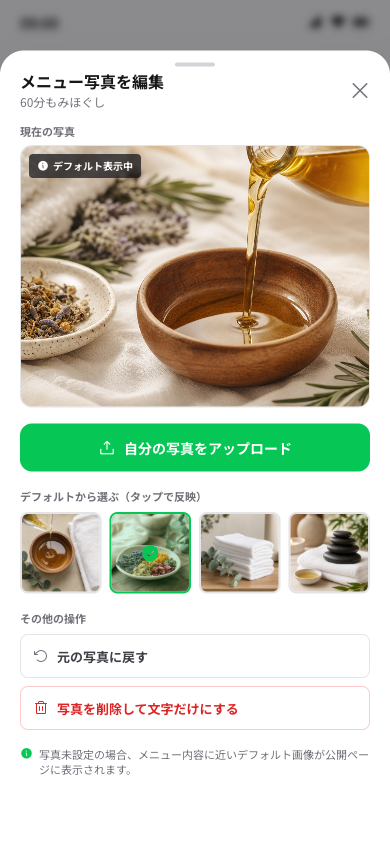
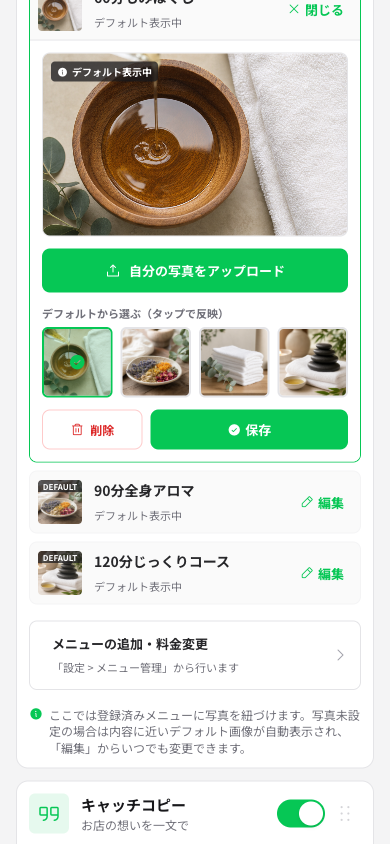
refactor(admin02 menu): フルスクリーンモーダルを廃止 → 編集ボタン位置でインライン展開アコーディオン
UX 問題の根本対応：

- 旧: 編集ボタンタップ → 画面ほぼ全体を覆うボトムシートモーダル
  ｜編集ボタンの位置感覚が失われ、操作対象との文脈断絶
  ｜画面が真っ白に変わる印象でリテラシー低層に不安
- 新: 編集ボタンタップ → 該当メニュー行のすぐ下にパネルがインライン展開
  ｜タップした位置のまま、視線移動なし
  ｜閉じるボタンも同じ位置（×アイコン+「閉じる」）
  ｜他メニューは触らない、画面全体は再描画しない

変更内容：
- 各メニュー行を .menu-row > [.menu-row__toggle, .menu-row__panel] の構造に再編
- 編集ボタンを行全体のtoggleに統合（ph-pencil ↔ ph-x のアイコン切替）
- 展開パネル: preview / アップロード CTA / デフォルト4サムネ / 削除・保存
- 旧モーダルHTML（#menu-photo-modal）と関連JSを完全削除
- 新JSはアイコン・ラベル・ボーダー色をトグル

操作対象との文脈を保ったまま編集できる、人間中心のUIに修正

diff --git a/shop-page/admin/02_block-edit.html b/shop-page/admin/02_block-edit.html
@@ -357,52 +357,191 @@
               詳細は admin/README.md を参照。
             -->
 
-            <!-- 60分もみほぐし（state="default" を採用） -->
-            <div class="flex items-center gap-3 p-2 bg-zinc-50 rounded-lg border border-zinc-100">
-              <div class="w-11 h-11 rounded overflow-hidden flex-shrink-0 relative">
-                <img src="../../branding/dummy/default/menu/01_oil.webp" alt="" class="w-full h-full object-cover opacity-90">
-                <span class="absolute top-0 left-0 right-0 text-center bg-zinc-900/70 text-white text-[8px] font-bold leading-[10px] py-[1px]">DEFAULT</span>
-              </div>
-              <div class="flex-1 min-w-0">
-                <span class="text-[14px] font-bold text-zinc-800 truncate block">60分もみほぐし</span>
-                <span class="text-[11px] text-zinc-500">デフォルト表示中</span>
-              </div>
-              <button class="menu-photo-edit text-[13px] font-bold text-line h-8 px-2 flex items-center gap-1" data-menu="60分もみほぐし" data-state="default">
-                <i class="ph ph-pencil-simple text-[14px]"></i>
-                編集
+            <!--
+              ▼ 展開UI（インラインaccordion）：
+              「編集」タップで同じカード内に編集パネルがその場で展開する。
+              モーダル表示にはせず、編集ボタンの位置を視覚的に維持。
+            -->
+
+            <!-- 60分もみほぐし -->
+            <div class="menu-row bg-zinc-50 rounded-lg border border-zinc-100 overflow-hidden" data-menu="60分もみほぐし" data-state="default">
+              <button class="menu-row__toggle w-full flex items-center gap-3 p-2 text-left touch-active">
+                <div class="w-11 h-11 rounded overflow-hidden flex-shrink-0 relative">
+                  <img src="../../branding/dummy/default/menu/01_oil.webp" alt="" class="menu-row__thumb w-full h-full object-cover opacity-90">
+                  <span class="absolute top-0 left-0 right-0 text-center bg-zinc-900/70 text-white text-[8px] font-bold leading-[10px] py-[1px]">DEFAULT</span>
+                </div>
+                <div class="flex-1 min-w-0">
+                  <span class="text-[14px] font-bold text-zinc-800 truncate block">60分もみほぐし</span>
+                  <span class="text-[11px] text-zinc-500">デフォルト表示中</span>
+                </div>
+                <span class="text-[13px] font-bold text-line h-8 px-2 flex items-center gap-1 shrink-0">
+                  <i class="ph ph-pencil-simple text-[14px] menu-row__icon-edit"></i>
+                  <i class="ph ph-x text-[14px] menu-row__icon-close hidden"></i>
+                  <span class="menu-row__label">編集</span>
+                </span>
               </button>
+              <!-- 展開パネル -->
+              <div class="menu-row__panel hidden border-t border-zinc-200 p-3 space-y-3 bg-white">
+                <div class="relative w-full aspect-[5/3] rounded-lg overflow-hidden bg-zinc-100 border border-zinc-200">
+                  <img src="../../branding/dummy/default/menu/01_oil.webp" alt="" class="w-full h-full object-cover">
+                  <span class="absolute top-2 left-2 inline-flex items-center h-5 px-1.5 rounded bg-zinc-900/75 text-white text-[10px] font-bold gap-1 leading-none">
+                    <i class="ph-fill ph-info text-[11px]"></i>
+                    デフォルト表示中
+                  </span>
+                </div>
+                <button class="w-full h-11 bg-line text-white rounded-lg text-[13px] font-bold inline-flex items-center justify-center gap-2 leading-none touch-active">
+                  <i class="ph ph-upload-simple text-[16px]"></i>
+                  自分の写真をアップロード
+                </button>
+                <div>
+                  <p class="text-[11px] text-zinc-500 font-bold mb-1.5">デフォルトから選ぶ（タップで反映）</p>
+                  <div class="grid grid-cols-4 gap-2">
+                    <button class="aspect-square rounded-md overflow-hidden border-2 border-line touch-active relative">
+                      <img src="../../branding/dummy/default/menu/01_oil.webp" alt="" class="w-full h-full object-cover">
+                      <span class="absolute inset-0 bg-line/15 flex items-center justify-center"><i class="ph-fill ph-check-circle text-[18px] text-line"></i></span>
+                    </button>
+                    <button class="aspect-square rounded-md overflow-hidden border-2 border-zinc-200 hover:border-line touch-active">
+                      <img src="../../branding/dummy/default/menu/02_aroma.webp" alt="" class="w-full h-full object-cover">
+                    </button>
+                    <button class="aspect-square rounded-md overflow-hidden border-2 border-zinc-200 hover:border-line touch-active">
+                      <img src="../../branding/dummy/default/menu/03_towels.webp" alt="" class="w-full h-full object-cover">
+                    </button>
+                    <button class="aspect-square rounded-md overflow-hidden border-2 border-zinc-200 hover:border-line touch-active">
+                      <img src="../../branding/dummy/default/menu/04_stones.webp" alt="" class="w-full h-full object-cover">
+                    </button>
+                  </div>
+                </div>
+                <div class="flex gap-2">
+                  <button class="flex-1 h-10 bg-white border border-red-200 text-red-600 rounded-lg text-[12px] font-bold flex items-center justify-center gap-1.5 touch-active">
+                    <i class="ph ph-trash text-[14px]"></i>
+                    削除
+                  </button>
+                  <button class="flex-[2] h-10 bg-line text-white rounded-lg text-[13px] font-bold inline-flex items-center justify-center gap-1 touch-active">
+                    <i class="ph-fill ph-check-circle text-[14px]"></i>
+                    保存
+                  </button>
+                </div>
+              </div>
             </div>
 
-            <!-- 90分全身アロマ（state="default"） -->
-            <div class="flex items-center gap-3 p-2 bg-zinc-50 rounded-lg border border-zinc-100">
-              <div class="w-11 h-11 rounded overflow-hidden flex-shrink-0 relative">
-                <img src="../../branding/dummy/default/menu/02_aroma.webp" alt="" class="w-full h-full object-cover opacity-90">
-                <span class="absolute top-0 left-0 right-0 text-center bg-zinc-900/70 text-white text-[8px] font-bold leading-[10px] py-[1px]">DEFAULT</span>
-              </div>
-              <div class="flex-1 min-w-0">
-                <span class="text-[14px] font-bold text-zinc-800 truncate block">90分全身アロマ</span>
-                <span class="text-[11px] text-zinc-500">デフォルト表示中</span>
-              </div>
-              <button class="menu-photo-edit text-[13px] font-bold text-line h-8 px-2 flex items-center gap-1" data-menu="90分全身アロマ" data-state="default">
-                <i class="ph ph-pencil-simple text-[14px]"></i>
-                編集
+            <!-- 90分全身アロマ -->
+            <div class="menu-row bg-zinc-50 rounded-lg border border-zinc-100 overflow-hidden" data-menu="90分全身アロマ" data-state="default">
+              <button class="menu-row__toggle w-full flex items-center gap-3 p-2 text-left touch-active">
+                <div class="w-11 h-11 rounded overflow-hidden flex-shrink-0 relative">
+                  <img src="../../branding/dummy/default/menu/02_aroma.webp" alt="" class="menu-row__thumb w-full h-full object-cover opacity-90">
+                  <span class="absolute top-0 left-0 right-0 text-center bg-zinc-900/70 text-white text-[8px] font-bold leading-[10px] py-[1px]">DEFAULT</span>
+                </div>
+                <div class="flex-1 min-w-0">
+                  <span class="text-[14px] font-bold text-zinc-800 truncate block">90分全身アロマ</span>
+                  <span class="text-[11px] text-zinc-500">デフォルト表示中</span>
+                </div>
+                <span class="text-[13px] font-bold text-line h-8 px-2 flex items-center gap-1 shrink-0">
+                  <i class="ph ph-pencil-simple text-[14px] menu-row__icon-edit"></i>
+                  <i class="ph ph-x text-[14px] menu-row__icon-close hidden"></i>
+                  <span class="menu-row__label">編集</span>
+                </span>
               </button>
+              <div class="menu-row__panel hidden border-t border-zinc-200 p-3 space-y-3 bg-white">
+                <div class="relative w-full aspect-[5/3] rounded-lg overflow-hidden bg-zinc-100 border border-zinc-200">
+                  <img src="../../branding/dummy/default/menu/02_aroma.webp" alt="" class="w-full h-full object-cover">
+                  <span class="absolute top-2 left-2 inline-flex items-center h-5 px-1.5 rounded bg-zinc-900/75 text-white text-[10px] font-bold gap-1 leading-none">
+                    <i class="ph-fill ph-info text-[11px]"></i>
+                    デフォルト表示中
+                  </span>
+                </div>
+                <button class="w-full h-11 bg-line text-white rounded-lg text-[13px] font-bold inline-flex items-center justify-center gap-2 leading-none touch-active">
+                  <i class="ph ph-upload-simple text-[16px]"></i>
+                  自分の写真をアップロード
+                </button>
+                <div>
+                  <p class="text-[11px] text-zinc-500 font-bold mb-1.5">デフォルトから選ぶ（タップで反映）</p>
+                  <div class="grid grid-cols-4 gap-2">
+                    <button class="aspect-square rounded-md overflow-hidden border-2 border-zinc-200 hover:border-line touch-active">
+                      <img src="../../branding/dummy/default/menu/01_oil.webp" alt="" class="w-full h-full object-cover">
+                    </button>
+                    <button class="aspect-square rounded-md overflow-hidden border-2 border-line touch-active relative">
+                      <img src="../../branding/dummy/default/menu/02_aroma.webp" alt="" class="w-full h-full object-cover">
+                      <span class="absolute inset-0 bg-line/15 flex items-center justify-center"><i class="ph-fill ph-check-circle text-[18px] text-line"></i></span>
+                    </button>
+                    <button class="aspect-square rounded-md overflow-hidden border-2 border-zinc-200 hover:border-line touch-active">
+                      <img src="../../branding/dummy/default/menu/03_towels.webp" alt="" class="w-full h-full object-cover">
+                    </button>
+                    <button class="aspect-square rounded-md overflow-hidden border-2 border-zinc-200 hover:border-line touch-active">
+                      <img src="../../branding/dummy/default/menu/04_stones.webp" alt="" class="w-full h-full object-cover">
+                    </button>
+                  </div>
+                </div>
+                <div class="flex gap-2">
+                  <button class="flex-1 h-10 bg-white border border-red-200 text-red-600 rounded-lg text-[12px] font-bold flex items-center justify-center gap-1.5 touch-active">
+                    <i class="ph ph-trash text-[14px]"></i>
+                    削除
+                  </button>
+                  <button class="flex-[2] h-10 bg-line text-white rounded-lg text-[13px] font-bold inline-flex items-center justify-center gap-1 touch-active">
+                    <i class="ph-fill ph-check-circle text-[14px]"></i>
+                    保存
+                  </button>
+                </div>
+              </div>
             </div>
 
-            <!-- 120分じっくりコース（state="default"） -->
-            <div class="flex items-center gap-3 p-2 bg-zinc-50 rounded-lg border border-zinc-100">
-              <div class="w-11 h-11 rounded overflow-hidden flex-shrink-0 relative">
-                <img src="../../branding/dummy/default/menu/04_stones.webp" alt="" class="w-full h-full object-cover opacity-90">
-                <span class="absolute top-0 left-0 right-0 text-center bg-zinc-900/70 text-white text-[8px] font-bold leading-[10px] py-[1px]">DEFAULT</span>
-              </div>
-              <div class="flex-1 min-w-0">
-                <span class="text-[14px] font-bold text-zinc-800 truncate block">120分じっくりコース</span>
-                <span class="text-[11px] text-zinc-500">デフォルト表示中</span>
-              </div>
-              <button class="menu-photo-edit text-[13px] font-bold text-line h-8 px-2 flex items-center gap-1" data-menu="120分じっくりコース" data-state="default">
-                <i class="ph ph-pencil-simple text-[14px]"></i>
-                編集
+            <!-- 120分じっくりコース -->
+            <div class="menu-row bg-zinc-50 rounded-lg border border-zinc-100 overflow-hidden" data-menu="120分じっくりコース" data-state="default">
+              <button class="menu-row__toggle w-full flex items-center gap-3 p-2 text-left touch-active">
+                <div class="w-11 h-11 rounded overflow-hidden flex-shrink-0 relative">
+                  <img src="../../branding/dummy/default/menu/04_stones.webp" alt="" class="menu-row__thumb w-full h-full object-cover opacity-90">
+                  <span class="absolute top-0 left-0 right-0 text-center bg-zinc-900/70 text-white text-[8px] font-bold leading-[10px] py-[1px]">DEFAULT</span>
+                </div>
+                <div class="flex-1 min-w-0">
+                  <span class="text-[14px] font-bold text-zinc-800 truncate block">120分じっくりコース</span>
+                  <span class="text-[11px] text-zinc-500">デフォルト表示中</span>
+                </div>
+                <span class="text-[13px] font-bold text-line h-8 px-2 flex items-center gap-1 shrink-0">
+                  <i class="ph ph-pencil-simple text-[14px] menu-row__icon-edit"></i>
+                  <i class="ph ph-x text-[14px] menu-row__icon-close hidden"></i>
+                  <span class="menu-row__label">編集</span>
+                </span>
               </button>
+              <div class="menu-row__panel hidden border-t border-zinc-200 p-3 space-y-3 bg-white">
+                <div class="relative w-full aspect-[5/3] rounded-lg overflow-hidden bg-zinc-100 border border-zinc-200">
+                  <img src="../../branding/dummy/default/menu/04_stones.webp" alt="" class="w-full h-full object-cover">
+                  <span class="absolute top-2 left-2 inline-flex items-center h-5 px-1.5 rounded bg-zinc-900/75 text-white text-[10px] font-bold gap-1 leading-none">
+                    <i class="ph-fill ph-info text-[11px]"></i>
+                    デフォルト表示中
+                  </span>
+                </div>
+                <button class="w-full h-11 bg-line text-white rounded-lg text-[13px] font-bold inline-flex items-center justify-center gap-2 leading-none touch-active">
+                  <i class="ph ph-upload-simple text-[16px]"></i>
+                  自分の写真をアップロード
+                </button>
+                <div>
+                  <p class="text-[11px] text-zinc-500 font-bold mb-1.5">デフォルトから選ぶ（タップで反映）</p>
+                  <div class="grid grid-cols-4 gap-2">
+                    <button class="aspect-square rounded-md overflow-hidden border-2 border-zinc-200 hover:border-line touch-active">
+                      <img src="../../branding/dummy/default/menu/01_oil.webp" alt="" class="w-full h-full object-cover">
+                    </button>
+                    <button class="aspect-square rounded-md overflow-hidden border-2 border-zinc-200 hover:border-line touch-active">
+                      <img src="../../branding/dummy/default/menu/02_aroma.webp" alt="" class="w-full h-full object-cover">
+                    </button>
+                    <button class="aspect-square rounded-md overflow-hidden border-2 border-zinc-200 hover:border-line touch-active">
+                      <img src="../../branding/dummy/default/menu/03_towels.webp" alt="" class="w-full h-full object-cover">
+                    </button>
+                    <button class="aspect-square rounded-md overflow-hidden border-2 border-line touch-active relative">
+                      <img src="../../branding/dummy/default/menu/04_stones.webp" alt="" class="w-full h-full object-cover">
+                      <span class="absolute inset-0 bg-line/15 flex items-center justify-center"><i class="ph-fill ph-check-circle text-[18px] text-line"></i></span>
+                    </button>
+                  </div>
+                </div>
+                <div class="flex gap-2">
+                  <button class="flex-1 h-10 bg-white border border-red-200 text-red-600 rounded-lg text-[12px] font-bold flex items-center justify-center gap-1.5 touch-active">
+                    <i class="ph ph-trash text-[14px]"></i>
+                    削除
+                  </button>
+                  <button class="flex-[2] h-10 bg-line text-white rounded-lg text-[13px] font-bold inline-flex items-center justify-center gap-1 touch-active">
+                    <i class="ph-fill ph-check-circle text-[14px]"></i>
+                    保存
+                  </button>
+                </div>
+              </div>
             </div>
 
             <!--
@@ -595,129 +734,36 @@
       </a>
     </div>
 
-    <!-- Menu Photo Edit Modal (Bottom Sheet) -->
-    <div id="menu-photo-modal" class="absolute inset-0 z-50 hidden" aria-hidden="true">
-      <div class="absolute inset-0 bg-zinc-900/50 backdrop-blur-sm" data-modal-close></div>
-      <div class="absolute left-0 right-0 bottom-0 top-[6dvh] bg-white rounded-t-3xl shadow-2xl flex flex-col">
-        <!-- Drag indicator -->
-        <div class="pt-3 pb-1 flex justify-center"><div class="w-10 h-1 rounded-full bg-zinc-300"></div></div>
-        <!-- Header -->
-        <header class="px-5 pb-3 flex items-center justify-between">
-          <div class="flex-1 min-w-0">
-            <h2 class="font-bold text-[16px] text-zinc-900 leading-tight">メニュー写真を編集</h2>
-            <p id="menu-modal-name" class="text-[12px] text-zinc-500 mt-0.5 truncate">60分もみほぐし</p>
-          </div>
-          <button class="w-9 h-9 flex items-center justify-center -mr-2 touch-active" data-modal-close aria-label="閉じる">
-            <i class="ph ph-x text-2xl text-zinc-500"></i>
-          </button>
-        </header>
-
-        <!-- Scrollable content -->
-        <div class="flex-1 overflow-y-auto px-5 pb-4">
-
-          <!-- Current photo preview -->
-          <div class="mb-4">
-            <p class="text-[11px] text-zinc-500 font-bold mb-1.5">現在の写真</p>
-            <div class="relative w-full aspect-[4/3] rounded-xl overflow-hidden bg-zinc-100 border border-zinc-200">
-              <img id="menu-modal-preview" src="../../branding/dummy/salon/02_oilbowl.webp" alt="" class="w-full h-full object-cover">
-              <span id="menu-modal-state-badge" class="absolute top-2 left-2 inline-flex items-center h-6 px-2 rounded bg-zinc-900/75 text-white text-[10px] font-bold gap-1 leading-none">
-                <i class="ph-fill ph-check-circle text-[12px]"></i>
-                マイ写真
-              </span>
-            </div>
-          </div>
-
-          <!-- アップロードCTA -->
-          <button class="w-full h-12 bg-line text-white rounded-xl text-[14px] font-bold inline-flex items-center justify-center gap-2 leading-none touch-active mb-4">
-            <i class="ph ph-upload-simple text-[18px]"></i>
-            自分の写真をアップロード
-          </button>
-
-          <!-- デフォルトから選ぶ -->
-          <p class="text-[11px] text-zinc-500 font-bold mb-2">デフォルトから選ぶ（タップで反映）</p>
-          <div class="grid grid-cols-4 gap-2 mb-4">
-            <button class="aspect-square rounded-lg overflow-hidden border-2 border-zinc-200 hover:border-line touch-active relative">
-              <img src="../../branding/dummy/default/menu/01_oil.webp" alt="オイル" class="w-full h-full object-cover">
-            </button>
-            <button class="aspect-square rounded-lg overflow-hidden border-2 border-line touch-active relative">
-              <img src="../../branding/dummy/default/menu/02_aroma.webp" alt="アロマ" class="w-full h-full object-cover">
-              <span class="absolute inset-0 bg-line/15 flex items-center justify-center"><i class="ph-fill ph-check-circle text-[20px] text-line"></i></span>
-            </button>
-            <button class="aspect-square rounded-lg overflow-hidden border-2 border-zinc-200 hover:border-line touch-active relative">
-              <img src="../../branding/dummy/default/menu/03_towels.webp" alt="タオル" class="w-full h-full object-cover">
-            </button>
-            <button class="aspect-square rounded-lg overflow-hidden border-2 border-zinc-200 hover:border-line touch-active relative">
-              <img src="../../branding/dummy/default/menu/04_stones.webp" alt="ストーン" class="w-full h-full object-cover">
-            </button>
-          </div>
-
-          <!-- その他 -->
-          <p class="text-[11px] text-zinc-500 font-bold mb-2">その他の操作</p>
-          <div class="flex flex-col gap-2">
-            <button class="h-11 px-3 bg-white border border-zinc-200 rounded-lg text-[13px] font-bold text-zinc-700 flex items-center gap-2 touch-active">
-              <i class="ph ph-arrow-counter-clockwise text-[16px] text-zinc-500"></i>
-              元の写真に戻す
-            </button>
-            <button class="h-11 px-3 bg-white border border-red-200 rounded-lg text-[13px] font-bold text-red-600 flex items-center gap-2 touch-active">
-              <i class="ph ph-trash text-[16px]"></i>
-              写真を削除して文字だけにする
-            </button>
-          </div>
-
-          <p class="mt-4 text-[11px] text-zinc-500 leading-snug flex items-start gap-1.5">
-            <i class="ph-fill ph-info text-line text-[13px] shrink-0 mt-[1px]"></i>
-            <span>写真未設定の場合、メニュー内容に近いデフォルト画像が公開ページに表示されます。</span>
-          </p>
-        </div>
-
-        <!-- Footer actions -->
-        <footer class="px-5 py-4 border-t border-zinc-200 flex gap-2 bg-white">
-          <button class="flex-1 h-12 bg-white border-2 border-zinc-200 text-zinc-700 rounded-xl text-[14px] font-bold touch-active" data-modal-close>
-            キャンセル
-          </button>
-          <button class="flex-[2] h-12 bg-line text-white rounded-xl text-[14px] font-bold inline-flex items-center justify-center gap-1.5 touch-active">
-            <i class="ph-fill ph-check-circle text-[16px]"></i>
-            保存する
-          </button>
-        </footer>
-      </div>
-    </div>
 
   </main>
 
   <script>
     document.addEventListener('DOMContentLoaded', () => {
-      const modal = document.getElementById('menu-photo-modal');
-      const modalNameEl = document.getElementById('menu-modal-name');
-      const modalPreview = document.getElementById('menu-modal-preview');
-      const modalStateBadge = document.getElementById('menu-modal-state-badge');
-
-      // 編集ボタン
-      document.querySelectorAll('.menu-photo-edit').forEach(btn => {
-        btn.addEventListener('click', () => {
-          modalNameEl.textContent = btn.dataset.menu;
-          // Find sibling preview image
-          const row = btn.closest('.flex.items-center');
-          const rowImg = row && row.querySelector('img');
-          if (rowImg) modalPreview.src = rowImg.src;
-          // State badge
-          if (btn.dataset.state === 'default') {
-            modalStateBadge.innerHTML = '<i class="ph-fill ph-info text-[12px]"></i> デフォルト表示中';
-            modalStateBadge.className = 'absolute top-2 left-2 inline-flex items-center h-6 px-2 rounded bg-zinc-900/75 text-white text-[10px] font-bold gap-1 leading-none';
+      // メニュー行のインライン展開アコーディオン
+      document.querySelectorAll('.menu-row').forEach(row => {
+        const toggle = row.querySelector('.menu-row__toggle');
+        const panel = row.querySelector('.menu-row__panel');
+        const labelEl = row.querySelector('.menu-row__label');
+        const iconEdit = row.querySelector('.menu-row__icon-edit');
+        const iconClose = row.querySelector('.menu-row__icon-close');
+        if (!toggle || !panel) return;
+        toggle.addEventListener('click', () => {
+          const isOpen = !panel.classList.contains('hidden');
+          if (isOpen) {
+            panel.classList.add('hidden');
+            iconEdit?.classList.remove('hidden');
+            iconClose?.classList.add('hidden');
+            if (labelEl) labelEl.textContent = '編集';
+            row.classList.remove('border-line');
+            row.classList.add('border-zinc-100');
           } else {
-            modalStateBadge.innerHTML = '<i class="ph-fill ph-check-circle text-[12px]"></i> マイ写真';
-            modalStateBadge.className = 'absolute top-2 left-2 inline-flex items-center h-6 px-2 rounded bg-line text-white text-[10px] font-bold gap-1 leading-none';
+            panel.classList.remove('hidden');
+            iconEdit?.classList.add('hidden');
+            iconClose?.classList.remove('hidden');
+            if (labelEl) labelEl.textContent = '閉じる';
+            row.classList.remove('border-zinc-100');
+            row.classList.add('border-line');
           }
-          modal.classList.remove('hidden');
-          modal.setAttribute('aria-hidden', 'false');
-        });
-      });
-
-      // 閉じる
-      modal.querySelectorAll('[data-modal-close]').forEach(el => {
-        el.addEventListener('click', () => {
-          modal.classList.add('hidden');
-          modal.setAttribute('aria-hidden', 'true');
         });
       });
     });
